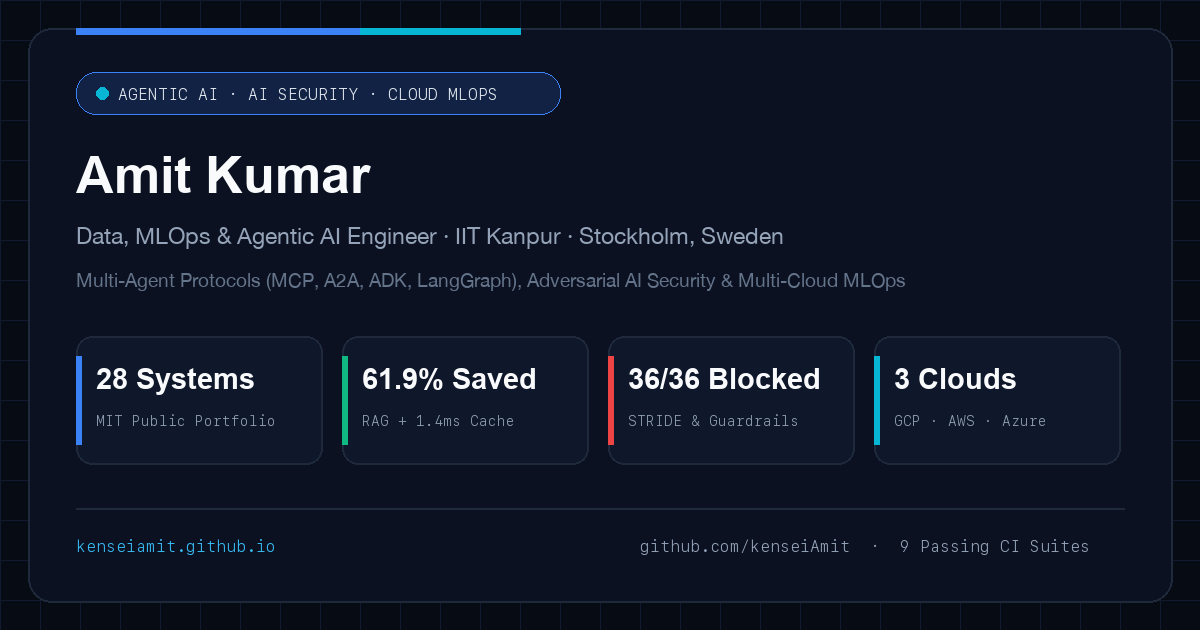
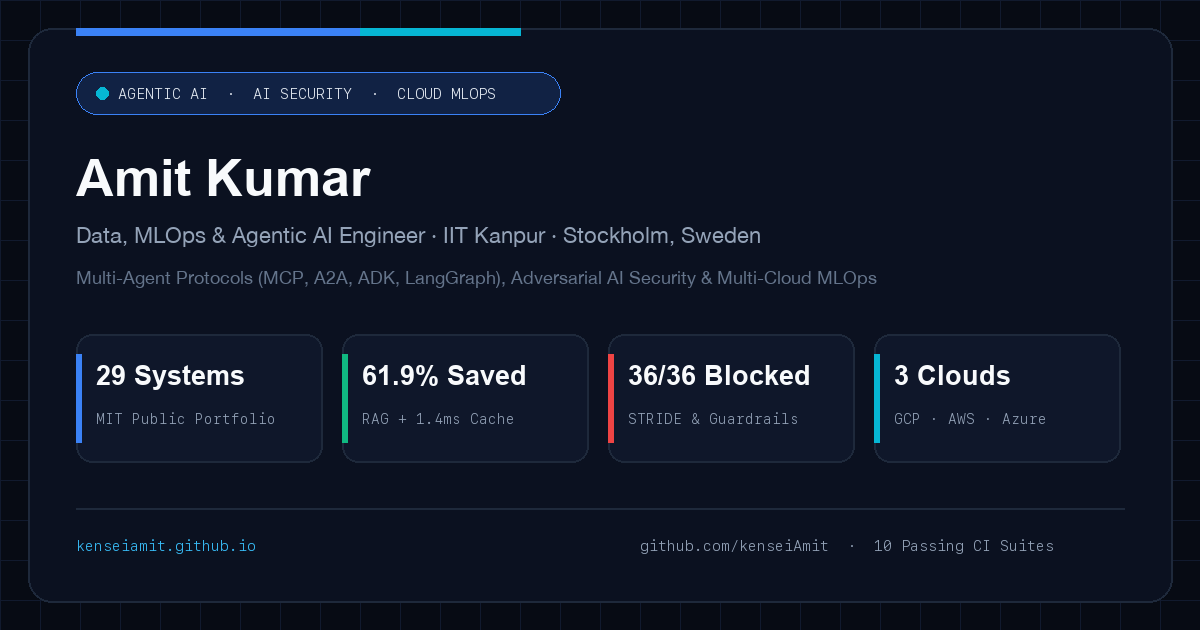
Add nasa-mission-rag-eval-engine (System #29) and update portfolio metrics

diff --git a/portfolio/index.html b/portfolio/index.html
@@ -3,8 +3,8 @@
 <head>
   <meta charset="UTF-8" />
   <meta name="viewport" content="width=device-width, initial-scale=1.0" />
-  <title>Full Engineering Portfolio (28 Systems) — Amit Kumar (@kenseiAmit)</title>
-  <meta name="description" content="Complete 28-system interactive engineering portfolio of Amit Kumar (IIT Kanpur · Stockholm, Sweden): Role-Lens deep links, Runtime Trace Replay Lab, Agentic AI Protocols (MCP, A2A, Google ADK, LangGraph), AI Security &amp; EU AI Act GRC, and Multi-Cloud MLOps." />
+  <title>Full Engineering Portfolio (29 Systems) — Amit Kumar (@kenseiAmit)</title>
+  <meta name="description" content="Complete 29-system interactive engineering portfolio of Amit Kumar (IIT Kanpur · Stockholm, Sweden): Role-Lens deep links, Runtime Trace Replay Lab, Agentic AI Protocols (MCP, A2A, Google ADK, LangGraph), AI Security &amp; EU AI Act GRC, and Multi-Cloud MLOps." />
   <meta name="author" content="Amit Kumar" />
   <link rel="canonical" href="https://kenseiamit.github.io/portfolio/" />
   <link rel="icon" type="image/svg+xml" href="../assets/favicon.svg" />
@@ -12,12 +12,12 @@
   <!-- OpenGraph / LinkedIn / Slack Preview -->
   <meta property="og:type" content="website" />
   <meta property="og:url" content="https://kenseiamit.github.io/portfolio/" />
-  <meta property="og:title" content="Full 28-System Engineering Portfolio — Amit Kumar (@kenseiAmit)" />
-  <meta property="og:description" content="28 public MIT systems · 61.9% tiered RAG cost reduction · 1.4ms semantic cache · 36/36 Bedrock Guardrails · Zero-Knowledge A2A &amp; MCP architectures across GCP, AWS &amp; Azure." />
+  <meta property="og:title" content="Full 29-System Engineering Portfolio — Amit Kumar (@kenseiAmit)" />
+  <meta property="og:description" content="29 public MIT systems · 61.9% tiered RAG cost reduction · 1.4ms semantic cache · 36/36 Bedrock Guardrails · Zero-Knowledge A2A &amp; MCP architectures across GCP, AWS &amp; Azure." />
   <meta property="og:image" content="https://kenseiamit.github.io/assets/og-card.png" />
   <meta name="twitter:card" content="summary_large_image" />
-  <meta name="twitter:title" content="Amit Kumar (@kenseiAmit) — 28-System Engineering Portfolio" />
-  <meta name="twitter:description" content="28 production systems across Agentic AI Protocols (MCP, A2A, ADK, LangGraph), AI Security &amp; EU AI Act GRC, and Cloud MLOps." />
+  <meta name="twitter:title" content="Amit Kumar (@kenseiAmit) — 29-System Engineering Portfolio" />
+  <meta name="twitter:description" content="29 production systems across Agentic AI Protocols (MCP, A2A, ADK, LangGraph), AI Security &amp; EU AI Act GRC, and Cloud MLOps." />
   <meta name="twitter:image" content="https://kenseiamit.github.io/assets/og-card.png" />
 
   <!-- Fonts -->
@@ -44,7 +44,7 @@
         <a href="../blog/">Blog</a>
         <a href="#flagships">Flagships</a>
         <a href="#trace-lab">Trace Lab</a>
-        <a href="#catalog">All 28 Systems</a>
+        <a href="#catalog">All 29 Systems</a>
         <a href="#domains">6 Domains</a>
         <a href="https://www.linkedin.com/in/kenseiamit/" target="_blank" rel="noopener">LinkedIn ↗</a>
         <a href="https://github.com/kenseiAmit" target="_blank" rel="noopener">GitHub ↗</a>
@@ -73,7 +73,7 @@
           <div>
             <div class="eyebrow mono">
               <span class="pulse-dot"></span>
-              <span>28 Public Production Systems · 9 Passing CI Suites</span>
+              <span>29 Public Production Systems · 10 Passing CI Suites</span>
             </div>
             <h1 class="hero-title">
               Production <span class="gradient-text">Agentic AI, AI Security</span> &amp; Cloud MLOps
@@ -110,7 +110,7 @@
         <!-- Verified KPI Strip -->
         <div class="stats-grid" id="heroStats">
           <div class="stat-card">
-            <div class="stat-val mono">28</div>
+            <div class="stat-val mono">29</div>
             <div class="stat-label">Public Production Systems</div>
             <div class="stat-sub">MIT Licensed · Reproducible Docs &amp; Topologies</div>
           </div>
@@ -162,7 +162,7 @@
               Click any system to inspect its full Mermaid system topology, Business Value &amp; ROI matrix, empirical benchmark charts, and CI verification evidence.
             </p>
           </div>
-          <a href="#catalog" class="btn btn-ghost btn-sm">Jump to Full 28-System Matrix ↓</a>
+          <a href="#catalog" class="btn btn-ghost btn-sm">Jump to Full 29-System Matrix ↓</a>
         </div>
 
         <div class="flagship-grid" id="flagshipGrid"></div>
@@ -192,18 +192,18 @@
       </div>
     </section>
 
-    <!-- Complete 28-System Searchable Engineering Catalog -->
+    <!-- Complete 29-System Searchable Engineering Catalog -->
     <section class="section" id="catalog">
       <div class="container">
         <div class="section-head">
           <div>
             <div class="section-kicker mono">03 · Complete Engineering Index</div>
-            <h2 class="section-title">All 28 Systems — Searchable Architecture Catalog</h2>
+            <h2 class="section-title">All 29 Systems — Searchable Architecture Catalog</h2>
             <p class="section-desc">
               Filter by engineering domain, protocol/framework stack, or GitHub Actions CI status—or switch to the compact Staff Architecture Matrix view.
             </p>
           </div>
-          <div class="mono" style="font-size:0.82rem;color:var(--text-muted);" id="catalogCountLabel">Showing 28 of 28 systems</div>
+          <div class="mono" style="font-size:0.82rem;color:var(--text-muted);" id="catalogCountLabel">Showing 29 of 29 systems</div>
         </div>
 
         <div class="catalog-controls">
@@ -215,13 +215,13 @@
                 id="catalogSearchInput"
                 class="search-input"
                 placeholder="Filter by repo, protocol, metric, or cloud (e.g., MCP, A2A, LangGraph, RAGAS, TreeSHAP, PySpark, Bedrock)…"
-                aria-label="Filter 28 engineering systems"
+                aria-label="Filter 29 engineering systems"
               />
             </div>
 
             <label class="icon-btn" style="cursor:pointer;user-select:none;">
               <input type="checkbox" id="ciOnlyToggle" style="accent-color:var(--accent-emerald);" />
-              <span>CI Passing Only (9)</span>
+              <span>CI Passing Only (10)</span>
             </label>
 
             <div class="view-toggle" role="group" aria-label="Catalog display mode">
@@ -245,7 +245,7 @@
           <div>
             <div class="section-kicker mono">04 · Architectural Breadth &amp; Depth</div>
             <h2 class="section-title">Six Specialized Engineering Domains</h2>
-            <p class="section-desc">Select any domain to filter the 28-system catalog directly to that architectural discipline.</p>
+            <p class="section-desc">Select any domain to filter the 29-system catalog directly to that architectural discipline.</p>
           </div>
         </div>
         <div class="domains-grid" id="domainsGrid"></div>
@@ -262,7 +262,7 @@
           Data, MLOps &amp; Agentic AI Engineer · IIT Kanpur · Stockholm, Sweden
         </div>
         <div style="font-size:0.8rem;color:var(--text-faint);margin-top:6px;">
-          All 28 systems open-sourced under MIT License with reproducible benchmarks &amp; architecture documentation.
+          All 29 systems open-sourced under MIT License with reproducible benchmarks &amp; architecture documentation.
         </div>
       </div>
       <div style="display:flex;gap:10px;flex-wrap:wrap;">
@@ -314,7 +314,7 @@
         type="text"
         id="cmdInput"
         class="cmd-input"
-        placeholder="Jump to any of the 28 systems, switch Role Lens, or replay a trace…"
+        placeholder="Jump to any of the 29 systems, switch Role Lens, or replay a trace…"
         autocomplete="off"
       />
       <div class="cmd-list" id="cmdList"></div>

diff --git a/index.html b/index.html
@@ -75,7 +75,7 @@
         <a href="#hobbies">Hobbies</a>
         <a href="blog/">Blog</a>
         <a href="#flagships">7 Flagships</a>
-        <a href="portfolio/">Full Portfolio (28)</a>
+        <a href="portfolio/">Full Portfolio (29)</a>
       </nav>
 
       <div class="nav-actions">
@@ -111,7 +111,7 @@
 
       <div class="home-cta-row">
         <a href="#flagships" class="btn btn-primary">Explore 7 Flagship Projects ↓</a>
-        <a href="portfolio/" class="btn btn-secondary">Open Full 28-System Portfolio →</a>
+        <a href="portfolio/" class="btn btn-secondary">Open Full 29-System Portfolio →</a>
         <a href="https://huggingface.co/spaces/kenseiamit/agentops-governance-sandbox" target="_blank" rel="noopener" class="btn btn-ghost">Try Live Sandbox ↗</a>
       </div>
 
@@ -394,12 +394,12 @@
         </article>
       </div>
 
-      <!-- Gateway to Full 28-System Interactive Portfolio -->
+      <!-- Gateway to Full 29-System Interactive Portfolio -->
       <div class="portfolio-gateway">
         <div>
-          <h3>Explore the Full 28-System Engineering Hub</h3>
+          <h3>Explore the Full 29-System Engineering Hub</h3>
           <p>
-            Filter all 28 MIT-licensed systems by hiring role lens, step through recorded runtime guardrail traces, inspect Mermaid topologies, or search across protocols with <code class="inline-code">⌘K</code>.
+            Filter all 29 MIT-licensed systems by hiring role lens, step through recorded runtime guardrail traces, inspect Mermaid topologies, or search across protocols with <code class="inline-code">⌘K</code>.
           </p>
         </div>
         <div style="display:flex;gap:10px;flex-wrap:wrap;">
@@ -419,7 +419,7 @@
         </div>
       </div>
       <div style="display:flex;gap:10px;flex-wrap:wrap;">
-        <a href="portfolio/" class="btn btn-secondary btn-sm">Full 28-System Portfolio →</a>
+        <a href="portfolio/" class="btn btn-secondary btn-sm">Full 29-System Portfolio →</a>
         <a href="mailto:kenseiamit@gmail.com" class="btn btn-primary btn-sm mono">kenseiamit@gmail.com</a>
         <a href="https://www.linkedin.com/in/kenseiamit/" target="_blank" rel="noopener" class="btn btn-ghost btn-sm">LinkedIn ↗</a>
         <a href="https://github.com/kenseiAmit" target="_blank" rel="noopener" class="btn btn-ghost btn-sm">GitHub ↗</a>

diff --git a/profile/index.html b/profile/index.html
@@ -34,7 +34,7 @@
 
       <nav class="nav-links" aria-label="Profile Navigation">
         <a href="../">Home &amp; Bio</a>
-        <a href="../portfolio/">Full Portfolio (28)</a>
+        <a href="../portfolio/">Full Portfolio (29)</a>
         <a href="../portfolio/#flagships">7 Flagships</a>
         <a href="../portfolio/#trace-lab">Trace Lab</a>
       </nav>
@@ -80,7 +80,7 @@
         </div>
 
         <div style="margin-top:24px;padding-top:18px;border-top:1px solid var(--border-subtle);display:flex;gap:10px;flex-wrap:wrap;justify-content:space-between;align-items:center;">
-          <a href="../portfolio/" class="btn btn-secondary btn-sm">← Explore Public 28-System Portfolio</a>
+          <a href="../portfolio/" class="btn btn-secondary btn-sm">← Explore Public 29-System Portfolio</a>
           <a href="mailto:kenseiamit@gmail.com?subject=Executive%20Profile%20Access%20Request" class="btn btn-ghost btn-sm mono">Request Access Link ✉</a>
         </div>
       </div>
@@ -100,7 +100,7 @@
       </div>
       <div style="display:flex;gap:10px;flex-wrap:wrap;">
         <a href="../" class="btn btn-ghost btn-sm">← Home</a>
-        <a href="../portfolio/" class="btn btn-secondary btn-sm">Full Portfolio (28) →</a>
+        <a href="../portfolio/" class="btn btn-secondary btn-sm">Full Portfolio (29) →</a>
         <a href="https://github.com/kenseiAmit" target="_blank" rel="noopener" class="btn btn-ghost btn-sm">GitHub ↗</a>
         <a href="mailto:kenseiamit@gmail.com" class="btn btn-ghost btn-sm mono">kenseiamit@gmail.com</a>
       </div>

diff --git a/projects/guarded-salesops-agent-runtime/business/index.html b/projects/guarded-salesops-agent-runtime/business/index.html
@@ -217,7 +217,7 @@
       <div class="cs-toc-links">
         <a href="https://github.com/kenseiAmit/guarded-salesops-agent-runtime" target="_blank" rel="noopener" class="btn btn-secondary btn-sm" style="justify-content:center;">View Repository ↗</a>
         <a href="../../../#flagships" class="btn btn-ghost btn-sm" style="justify-content:center;">← Home &amp; 7 Flagships</a>
-        <a href="../../../portfolio/" class="btn btn-ghost btn-sm" style="justify-content:center;">Full Portfolio (28) →</a>
+        <a href="../../../portfolio/" class="btn btn-ghost btn-sm" style="justify-content:center;">Full Portfolio (29) →</a>
       </div>
     </aside>
 
@@ -969,7 +969,7 @@ docker run --rm guarded-salesops-agent ask &quot;Summarize the current sales pip
       </div>
       <div style="display:flex;gap:10px;flex-wrap:wrap;">
         <a href="../../../" class="btn btn-ghost btn-sm">← Personal Home</a>
-        <a href="../../../portfolio/" class="btn btn-secondary btn-sm">Full Portfolio (28 Systems) →</a>
+        <a href="../../../portfolio/" class="btn btn-secondary btn-sm">Full Portfolio (29 Systems) →</a>
         <a href="https://github.com/kenseiAmit/guarded-salesops-agent-runtime" target="_blank" rel="noopener" class="btn btn-primary btn-sm">GitHub Repository ↗</a>
         <a href="https://www.linkedin.com/in/kenseiamit/" target="_blank" rel="noopener" class="btn btn-ghost btn-sm">LinkedIn ↗</a>
       </div>

diff --git a/projects/bedrock-rag-threat-modeling-guardrails/business/index.html b/projects/bedrock-rag-threat-modeling-guardrails/business/index.html
@@ -217,7 +217,7 @@
       <div class="cs-toc-links">
         <a href="https://github.com/kenseiAmit/bedrock-rag-threat-modeling-guardrails" target="_blank" rel="noopener" class="btn btn-secondary btn-sm" style="justify-content:center;">View Repository ↗</a>
         <a href="../../../#flagships" class="btn btn-ghost btn-sm" style="justify-content:center;">← Home &amp; 7 Flagships</a>
-        <a href="../../../portfolio/" class="btn btn-ghost btn-sm" style="justify-content:center;">Full Portfolio (28) →</a>
+        <a href="../../../portfolio/" class="btn btn-ghost btn-sm" style="justify-content:center;">Full Portfolio (29) →</a>
       </div>
     </aside>
 
@@ -938,7 +938,7 @@ cd bedrock-rag-threat-modeling-guardrails</pre>
       </div>
       <div style="display:flex;gap:10px;flex-wrap:wrap;">
         <a href="../../../" class="btn btn-ghost btn-sm">← Personal Home</a>
-        <a href="../../../portfolio/" class="btn btn-secondary btn-sm">Full Portfolio (28 Systems) →</a>
+        <a href="../../../portfolio/" class="btn btn-secondary btn-sm">Full Portfolio (29 Systems) →</a>
         <a href="https://github.com/kenseiAmit/bedrock-rag-threat-modeling-guardrails" target="_blank" rel="noopener" class="btn btn-primary btn-sm">GitHub Repository ↗</a>
         <a href="https://www.linkedin.com/in/kenseiamit/" target="_blank" rel="noopener" class="btn btn-ghost btn-sm">LinkedIn ↗</a>
       </div>

diff --git a/projects/guarded-salesops-agent-runtime/index.html b/projects/guarded-salesops-agent-runtime/index.html
@@ -217,7 +217,7 @@
       <div class="cs-toc-links">
         <a href="https://github.com/kenseiAmit/guarded-salesops-agent-runtime" target="_blank" rel="noopener" class="btn btn-secondary btn-sm" style="justify-content:center;">View Repository ↗</a>
         <a href="../../#flagships" class="btn btn-ghost btn-sm" style="justify-content:center;">← Home &amp; 7 Flagships</a>
-        <a href="../../portfolio/" class="btn btn-ghost btn-sm" style="justify-content:center;">Full Portfolio (28) →</a>
+        <a href="../../portfolio/" class="btn btn-ghost btn-sm" style="justify-content:center;">Full Portfolio (29) →</a>
       </div>
     </aside>
 
@@ -969,7 +969,7 @@ docker run --rm guarded-salesops-agent ask &quot;Summarize the current sales pip
       </div>
       <div style="display:flex;gap:10px;flex-wrap:wrap;">
         <a href="../../" class="btn btn-ghost btn-sm">← Personal Home</a>
-        <a href="../../portfolio/" class="btn btn-secondary btn-sm">Full Portfolio (28 Systems) →</a>
+        <a href="../../portfolio/" class="btn btn-secondary btn-sm">Full Portfolio (29 Systems) →</a>
         <a href="https://github.com/kenseiAmit/guarded-salesops-agent-runtime" target="_blank" rel="noopener" class="btn btn-primary btn-sm">GitHub Repository ↗</a>
         <a href="https://www.linkedin.com/in/kenseiamit/" target="_blank" rel="noopener" class="btn btn-ghost btn-sm">LinkedIn ↗</a>
       </div>

diff --git a/projects/rag-gateway-eval-cost-controls/business/index.html b/projects/rag-gateway-eval-cost-controls/business/index.html
@@ -217,7 +217,7 @@
       <div class="cs-toc-links">
         <a href="https://github.com/kenseiAmit/rag-gateway-eval-cost-controls" target="_blank" rel="noopener" class="btn btn-secondary btn-sm" style="justify-content:center;">View Repository ↗</a>
         <a href="../../../#flagships" class="btn btn-ghost btn-sm" style="justify-content:center;">← Home &amp; 7 Flagships</a>
-        <a href="../../../portfolio/" class="btn btn-ghost btn-sm" style="justify-content:center;">Full Portfolio (28) →</a>
+        <a href="../../../portfolio/" class="btn btn-ghost btn-sm" style="justify-content:center;">Full Portfolio (29) →</a>
       </div>
     </aside>
 
@@ -953,7 +953,7 @@ uv run uvicorn src.gateway.app:app --reload --port 8000</pre>
       </div>
       <div style="display:flex;gap:10px;flex-wrap:wrap;">
         <a href="../../../" class="btn btn-ghost btn-sm">← Personal Home</a>
-        <a href="../../../portfolio/" class="btn btn-secondary btn-sm">Full Portfolio (28 Systems) →</a>
+        <a href="../../../portfolio/" class="btn btn-secondary btn-sm">Full Portfolio (29 Systems) →</a>
         <a href="https://github.com/kenseiAmit/rag-gateway-eval-cost-controls" target="_blank" rel="noopener" class="btn btn-primary btn-sm">GitHub Repository ↗</a>
         <a href="https://www.linkedin.com/in/kenseiamit/" target="_blank" rel="noopener" class="btn btn-ghost btn-sm">LinkedIn ↗</a>
       </div>

diff --git a/projects/claude-extraction-eval-observability/business/index.html b/projects/claude-extraction-eval-observability/business/index.html
@@ -217,7 +217,7 @@
       <div class="cs-toc-links">
         <a href="https://github.com/kenseiAmit/claude-extraction-eval-observability" target="_blank" rel="noopener" class="btn btn-secondary btn-sm" style="justify-content:center;">View Repository ↗</a>
         <a href="../../../#flagships" class="btn btn-ghost btn-sm" style="justify-content:center;">← Home &amp; 7 Flagships</a>
-        <a href="../../../portfolio/" class="btn btn-ghost btn-sm" style="justify-content:center;">Full Portfolio (28) →</a>
+        <a href="../../../portfolio/" class="btn btn-ghost btn-sm" style="justify-content:center;">Full Portfolio (29) →</a>
       </div>
     </aside>
 
@@ -883,7 +883,7 @@ python evaluation/calibration_report.py</pre>
       </div>
       <div style="display:flex;gap:10px;flex-wrap:wrap;">
         <a href="../../../" class="btn btn-ghost btn-sm">← Personal Home</a>
-        <a href="../../../portfolio/" class="btn btn-secondary btn-sm">Full Portfolio (28 Systems) →</a>
+        <a href="../../../portfolio/" class="btn btn-secondary btn-sm">Full Portfolio (29 Systems) →</a>
         <a href="https://github.com/kenseiAmit/claude-extraction-eval-observability" target="_blank" rel="noopener" class="btn btn-primary btn-sm">GitHub Repository ↗</a>
         <a href="https://www.linkedin.com/in/kenseiamit/" target="_blank" rel="noopener" class="btn btn-ghost btn-sm">LinkedIn ↗</a>
       </div>

diff --git a/projects/bedrock-rag-threat-modeling-guardrails/index.html b/projects/bedrock-rag-threat-modeling-guardrails/index.html
@@ -217,7 +217,7 @@
       <div class="cs-toc-links">
         <a href="https://github.com/kenseiAmit/bedrock-rag-threat-modeling-guardrails" target="_blank" rel="noopener" class="btn btn-secondary btn-sm" style="justify-content:center;">View Repository ↗</a>
         <a href="../../#flagships" class="btn btn-ghost btn-sm" style="justify-content:center;">← Home &amp; 7 Flagships</a>
-        <a href="../../portfolio/" class="btn btn-ghost btn-sm" style="justify-content:center;">Full Portfolio (28) →</a>
+        <a href="../../portfolio/" class="btn btn-ghost btn-sm" style="justify-content:center;">Full Portfolio (29) →</a>
       </div>
     </aside>
 
@@ -938,7 +938,7 @@ cd bedrock-rag-threat-modeling-guardrails</pre>
       </div>
       <div style="display:flex;gap:10px;flex-wrap:wrap;">
         <a href="../../" class="btn btn-ghost btn-sm">← Personal Home</a>
-        <a href="../../portfolio/" class="btn btn-secondary btn-sm">Full Portfolio (28 Systems) →</a>
+        <a href="../../portfolio/" class="btn btn-secondary btn-sm">Full Portfolio (29 Systems) →</a>
         <a href="https://github.com/kenseiAmit/bedrock-rag-threat-modeling-guardrails" target="_blank" rel="noopener" class="btn btn-primary btn-sm">GitHub Repository ↗</a>
         <a href="https://www.linkedin.com/in/kenseiamit/" target="_blank" rel="noopener" class="btn btn-ghost btn-sm">LinkedIn ↗</a>
       </div>

diff --git a/projects/rag-gateway-eval-cost-controls/index.html b/projects/rag-gateway-eval-cost-controls/index.html
@@ -217,7 +217,7 @@
       <div class="cs-toc-links">
         <a href="https://github.com/kenseiAmit/rag-gateway-eval-cost-controls" target="_blank" rel="noopener" class="btn btn-secondary btn-sm" style="justify-content:center;">View Repository ↗</a>
         <a href="../../#flagships" class="btn btn-ghost btn-sm" style="justify-content:center;">← Home &amp; 7 Flagships</a>
-        <a href="../../portfolio/" class="btn btn-ghost btn-sm" style="justify-content:center;">Full Portfolio (28) →</a>
+        <a href="../../portfolio/" class="btn btn-ghost btn-sm" style="justify-content:center;">Full Portfolio (29) →</a>
       </div>
     </aside>
 
@@ -953,7 +953,7 @@ uv run uvicorn src.gateway.app:app --reload --port 8000</pre>
       </div>
       <div style="display:flex;gap:10px;flex-wrap:wrap;">
         <a href="../../" class="btn btn-ghost btn-sm">← Personal Home</a>
-        <a href="../../portfolio/" class="btn btn-secondary btn-sm">Full Portfolio (28 Systems) →</a>
+        <a href="../../portfolio/" class="btn btn-secondary btn-sm">Full Portfolio (29 Systems) →</a>
         <a href="https://github.com/kenseiAmit/rag-gateway-eval-cost-controls" target="_blank" rel="noopener" class="btn btn-primary btn-sm">GitHub Repository ↗</a>
         <a href="https://www.linkedin.com/in/kenseiamit/" target="_blank" rel="noopener" class="btn btn-ghost btn-sm">LinkedIn ↗</a>
       </div>

diff --git a/projects/clinical-ai-governance-fairness-audit/business/index.html b/projects/clinical-ai-governance-fairness-audit/business/index.html
@@ -217,7 +217,7 @@
       <div class="cs-toc-links">
         <a href="https://github.com/kenseiAmit/clinical-ai-governance-fairness-audit" target="_blank" rel="noopener" class="btn btn-secondary btn-sm" style="justify-content:center;">View Repository ↗</a>
         <a href="../../../#flagships" class="btn btn-ghost btn-sm" style="justify-content:center;">← Home &amp; 7 Flagships</a>
-        <a href="../../../portfolio/" class="btn btn-ghost btn-sm" style="justify-content:center;">Full Portfolio (28) →</a>
+        <a href="../../../portfolio/" class="btn btn-ghost btn-sm" style="justify-content:center;">Full Portfolio (29) →</a>
       </div>
     </aside>
 
@@ -879,7 +879,7 @@ pytest lab/tests/ -v</pre>
       </div>
       <div style="display:flex;gap:10px;flex-wrap:wrap;">
         <a href="../../../" class="btn btn-ghost btn-sm">← Personal Home</a>
-        <a href="../../../portfolio/" class="btn btn-secondary btn-sm">Full Portfolio (28 Systems) →</a>
+        <a href="../../../portfolio/" class="btn btn-secondary btn-sm">Full Portfolio (29 Systems) →</a>
         <a href="https://github.com/kenseiAmit/clinical-ai-governance-fairness-audit" target="_blank" rel="noopener" class="btn btn-primary btn-sm">GitHub Repository ↗</a>
         <a href="https://www.linkedin.com/in/kenseiamit/" target="_blank" rel="noopener" class="btn btn-ghost btn-sm">LinkedIn ↗</a>
       </div>

diff --git a/projects/claude-extraction-eval-observability/index.html b/projects/claude-extraction-eval-observability/index.html
@@ -217,7 +217,7 @@
       <div class="cs-toc-links">
         <a href="https://github.com/kenseiAmit/claude-extraction-eval-observability" target="_blank" rel="noopener" class="btn btn-secondary btn-sm" style="justify-content:center;">View Repository ↗</a>
         <a href="../../#flagships" class="btn btn-ghost btn-sm" style="justify-content:center;">← Home &amp; 7 Flagships</a>
-        <a href="../../portfolio/" class="btn btn-ghost btn-sm" style="justify-content:center;">Full Portfolio (28) →</a>
+        <a href="../../portfolio/" class="btn btn-ghost btn-sm" style="justify-content:center;">Full Portfolio (29) →</a>
       </div>
     </aside>
 
@@ -883,7 +883,7 @@ python evaluation/calibration_report.py</pre>
       </div>
       <div style="display:flex;gap:10px;flex-wrap:wrap;">
         <a href="../../" class="btn btn-ghost btn-sm">← Personal Home</a>
-        <a href="../../portfolio/" class="btn btn-secondary btn-sm">Full Portfolio (28 Systems) →</a>
+        <a href="../../portfolio/" class="btn btn-secondary btn-sm">Full Portfolio (29 Systems) →</a>
         <a href="https://github.com/kenseiAmit/claude-extraction-eval-observability" target="_blank" rel="noopener" class="btn btn-primary btn-sm">GitHub Repository ↗</a>
         <a href="https://www.linkedin.com/in/kenseiamit/" target="_blank" rel="noopener" class="btn btn-ghost btn-sm">LinkedIn ↗</a>
       </div>
